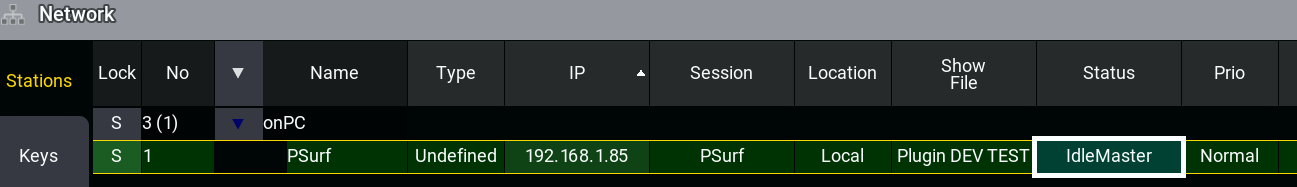
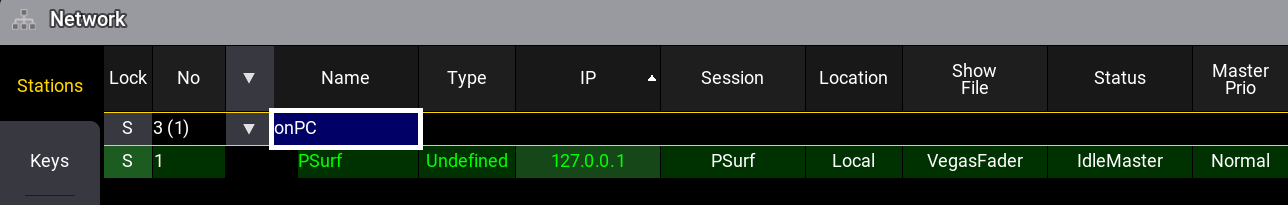
feat: load config from OSC instead .js
chore: update images
chore: update readme

diff --git a/pam-OSC-Module.js b/pam-OSC-Module.js
@@ -30,19 +30,21 @@ let encoderFine = false;
 let encoderRough = false;
 let currentAttribute = "dimmer";
 
-//The IP to send
-var ip = "10.0.16.16";
-var oscPort = 9003;
 var prefix = "";
 var page = "1";
-var devices = ['xTouchBig1.json'];
 
-devices.forEach((config) => {
-	const name = config.split('.')[0]
-	const value = loadJSON('mappings/' + config, (e) => console.log(e));
+const ipPort = ('' +settings.read("send")).split(":");
+const ip = ipPort[0];
+const oscPort = ipPort[1];
+
+settings.read("midi").forEach(deviceMidi => {
+	const name = deviceMidi.split(":")[0];
+	const fileName = name + ".json";
+
+	const value = loadJSON('mappings/' + fileName, (e) => console.error("The Mapping " + fileName + " could not be found. Please make sure it exists, or rename your MIDI Device name to a existing one"));
 	value.buttonFeedbackMapper = eval('(' + value.buttonFeedbackMapper + ')');
 	routing[name] = value;
-	console.log("loaded mapping: ", config);
+	console.log("loaded mapping: ", fileName);
 });
 
 midiUtils.sendAttributeLED(routing, currentAttribute);

diff --git a/README.md b/README.md
@@ -25,97 +25,7 @@ It is Still in Beta & uses a lot of Recources, what could create Performance iss
 
 ## How to Setup
 
-### 1. Install Open Stag Control
-You can find it here: [http://openstagecontrol.ammd.net/](http://openstagecontrol.ammd.net/)
-
-### 2. Download Repository
-Download Source Code here: [https://github.com/xxpasixx/pam-osc/releases](https://github.com/xxpasixx/pam-osc/releases)
-
-### 3. Configure Open Stage Control
-#### Open configuration
-Load OpenStageControlConfig.config:
-
-![OpenConfig](img/openConfig.png)
-
-Open Custom Module: pam-OSC-Module.js
-
-![Open Module](img/openModule.png)
-
-#### Configure Midi Devices
-List all Midi Devices:
-
-![List Midi ](img/listMidi.png)
-
-Update the field Midi with your Devices. Exampel: xTouch:0,1
-
-If You have Multiple devices: xTouch:0,1 xTouch2:1,2
-
-### 4. Update Files
-Now Open the File pam-OSC-Module.js
-
-Configure your Devices under var routing = {}
-
-Remove the Devices you don't Need.
-
-Set the ip to the IP of your Grandma. Make sure the IP is Session Master.
-This should be the ip, not the Broadcast for example:
-
-Right: 192.168.178.67
-
-
-Wrong: 192.168.178.255
-
-### 5. Start Open Stage Control
-
-![startOSC](img/startOSC.png)
-
-### 6. Configure GrandMA3
-#### Make Sure the PC you are Using is in a Session and is the Session Master
-
-![sessionMaster](img/sessionMaster.png)
-
-#### Configure In & - OSC
-
-Make Sure the Right Interface is Selected and the Preferred IP is the same.
-
-
-Create a new Entry with your Broadcast IP. On Normal Networks it is x.x.x.255
-
-Set the Port to 9003
-
-Set the Fader Range to 127
-
-Set Recive and Recive Command to Yes
-
-
-
-Create a Second Entry (Must be number 2) and set your Broadcast IP
-
-Set the Port to 9004
-
-Set the Fader Range to 127
-
-Set Send Command to Yes
-
-
-In the End it schould look Simular to this:
-
-![inAndOut](img/inAndOut.png)
-
-### 7. Create Plugin
-Open the Plugin Pool and create a new One.
-
-Insert a new Lua Component and Edit it.
-
-Paste everything from pam-OSC.lua into it
-
-Save & Close.
-
-Hit the Plugin to Start it.
-
-Now everything should work.
-
-To Disable the Plugin Hit it again.
+[Setup Instructions](https://github.com/xxpasixx/pam-osc/wiki/Setup)
 
 ### 8. Edit Executors (Optional)
 Disable the Plugin Loop(Hit it once)
@@ -206,7 +116,7 @@ Make Sure the IP's are all correct and the PC is the Session Master.
 ## Upcomming things
 - more predefined Devices
 - colourd button feedback
-- easyer installation
+- ~~easyer installation~~
 - autostart documentation
 - better Plugin Management in MA (Configuration via GUI)
 - dont move Fader when Flash
@@ -214,8 +124,8 @@ Make Sure the IP's are all correct and the PC is the Session Master.
 - LED Status should be send frequently (XTouch Issues)
 - add for LED Feedback: Freeze & Prvw
 - add for LED Feedback: Fixture, Channel, Edit, Update, Align, At, Clear
-- update Ports in Documentation and preConfig
-- update to configure IP in OSC GUI
+- ~~update Ports in Documentation and preConfig~~
+- u~~pdate to configure IP in OSC GUI~~
 
 ### Videos to Create
 - Setup Video XTouchCompact
